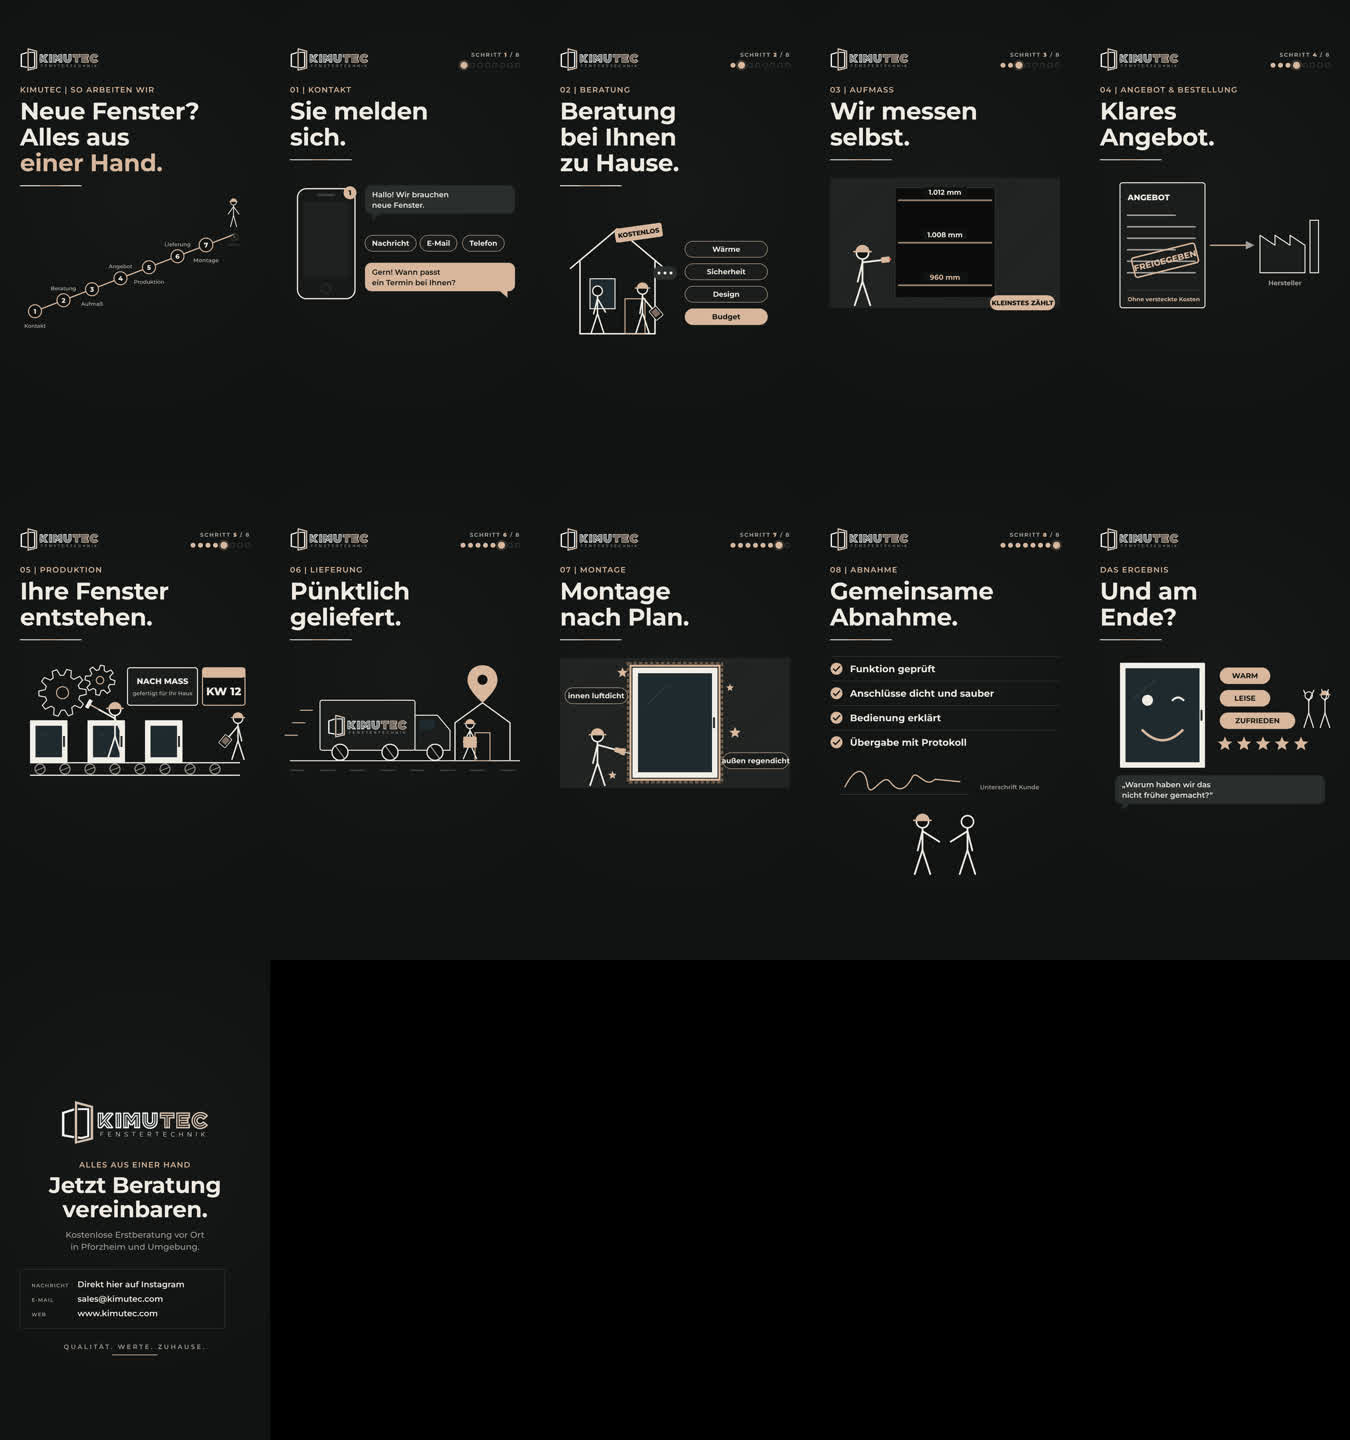
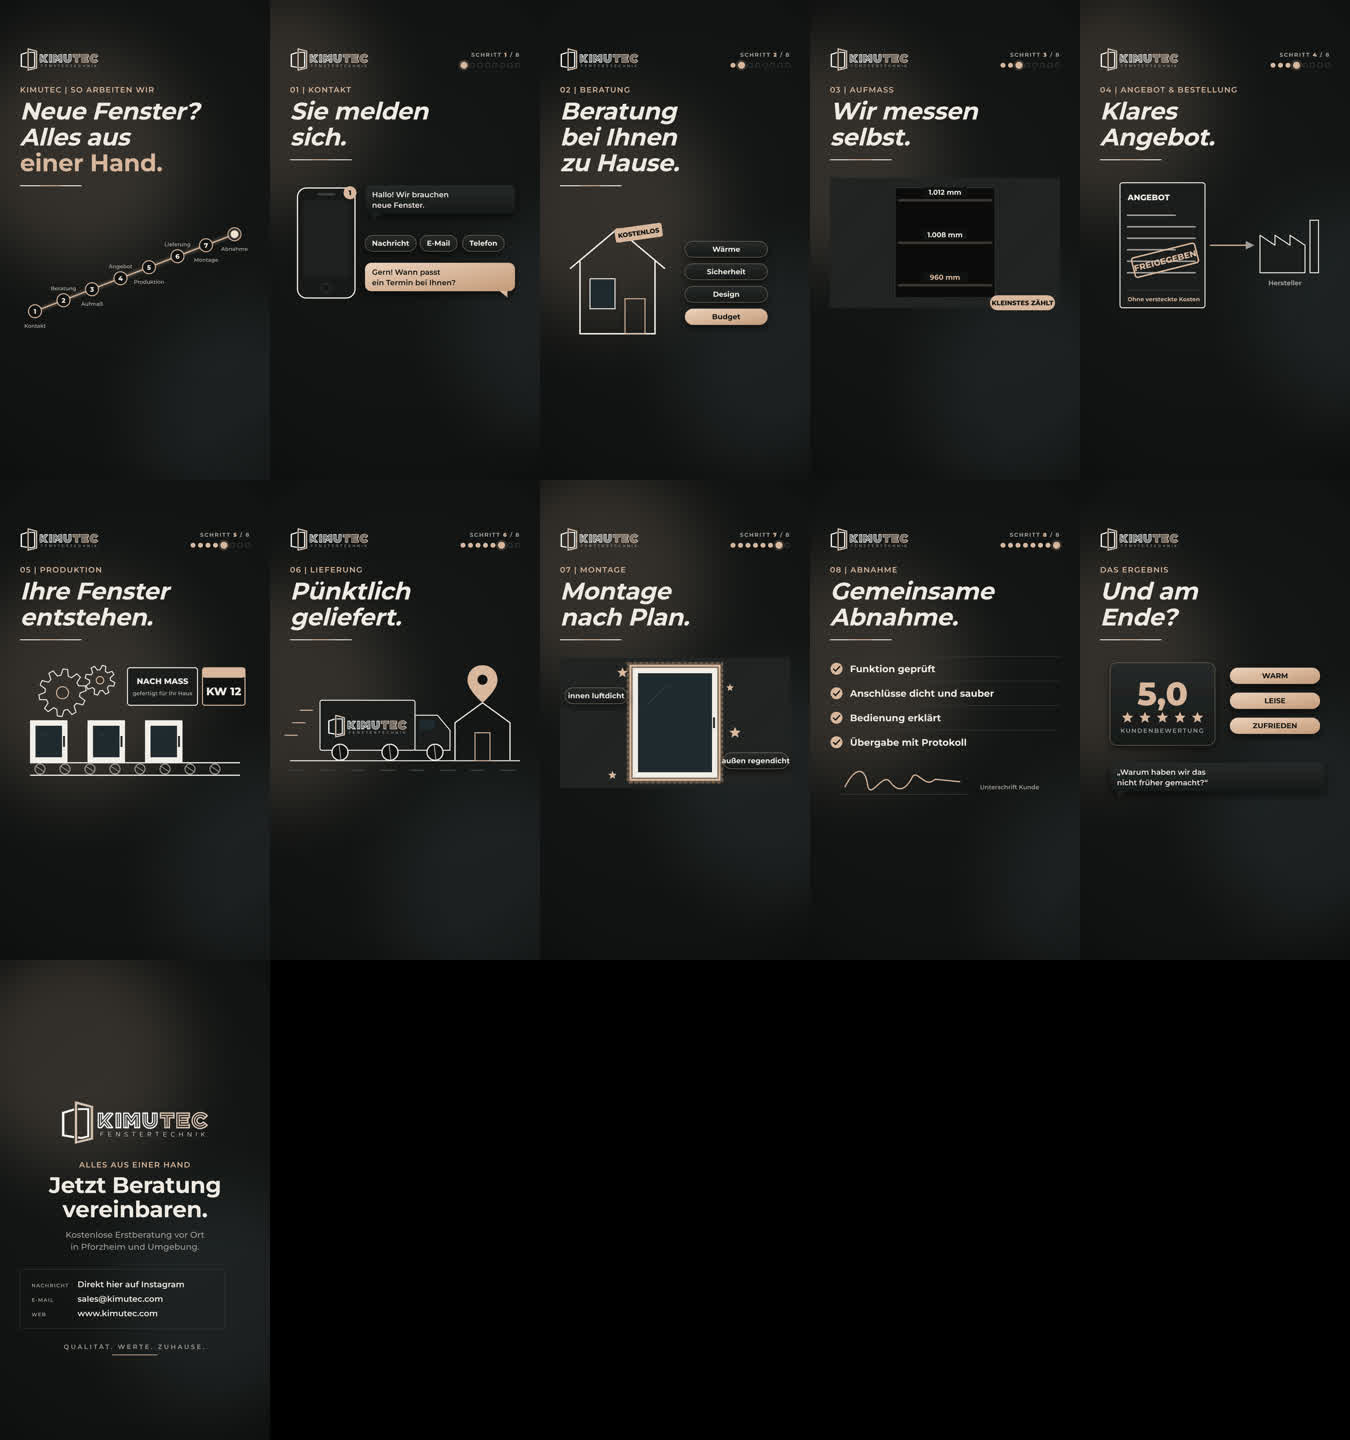
Reel 9: Profi-Effekte statt Strichmännchen, ruhige Stimme ohne Akzent
Titel Wort für Wort, Lichtwischer bei Szenenwechseln, wanderndes
Hintergrundlicht, leuchtende Linien, Karten mit Verlauf und Schatten,
Bewertungskarte mit Konfetti. Stimme: Florian (Microsoft), ruhig.

Claude-Session: https://claude.ai/code/session_01MaL2Hq1C3zWQVUzRVBLkBD

diff --git a/reels/engine/buehne.html b/reels/engine/buehne.html
@@ -20,7 +20,18 @@
 html,body{margin:0;background:var(--bg)}
 body{width:1080px;height:1920px;overflow:hidden;position:relative;font-family:"Montserrat",sans-serif;color:var(--ink);
   background:radial-gradient(120% 70% at 50% 40%,#151817 0%,var(--bg) 70%)}
-#logo{position:absolute;left:80px;top:190px;height:96px}
+#logo{position:absolute;left:80px;top:190px;height:96px;z-index:2}
+#licht{position:absolute;inset:0;overflow:hidden;pointer-events:none}
+#licht i{position:absolute;width:900px;height:900px;border-radius:50%;filter:blur(120px);opacity:.16}
+#licht i:nth-child(1){background:#D8B79C;left:-300px;top:200px}
+#licht i:nth-child(2){background:#7E95A0;right:-380px;top:1000px;opacity:.10}
+#licht b{position:absolute;inset:0;background:radial-gradient(130% 90% at 50% 45%,transparent 55%,rgba(0,0,0,.55) 100%)}
+#wisch{position:absolute;top:-200px;left:0;width:520px;height:2400px;pointer-events:none;z-index:5;
+  background:linear-gradient(90deg,rgba(216,183,156,0) 0%,rgba(216,183,156,.18) 40%,rgba(240,220,200,.85) 50%,rgba(216,183,156,.18) 60%,rgba(216,183,156,0) 100%);transform:translateX(-900px) skewX(-14deg)}
+.szene{will-change:transform,opacity,filter}
+.titel .zeile{display:block;overflow:hidden;padding-bottom:.1em;margin-bottom:-.1em}
+.titel .wort{display:inline-block;font-style:normal;will-change:transform}
+.leuchten{filter:url(#glow)}
 .szene{position:absolute;inset:0;padding:340px 80px 0}
 .label{font-size:31px;font-weight:600;letter-spacing:.09em;color:var(--akzent);text-transform:uppercase;margin:0 0 14px}
 .titel{font-size:96px;line-height:1.08;font-weight:700;letter-spacing:-.01em;margin:0}
@@ -111,11 +122,17 @@ body{width:1080px;height:1920px;overflow:hidden;position:relative;font-family:"M
     <pattern id="daemmung" width="40" height="14" patternUnits="userSpaceOnUse">
       <rect width="40" height="14" fill="#2A241E"/><line x1="0" y1="7" x2="40" y2="7" stroke="#6E5A48" stroke-width="2"/>
     </pattern>
+    <filter id="glow" x="-20%" y="-20%" width="140%" height="140%"><feGaussianBlur stdDeviation="7" result="b"/><feMerge><feMergeNode in="b"/><feMergeNode in="SourceGraphic"/></feMerge></filter>
+    <filter id="schatten" x="-20%" y="-20%" width="140%" height="160%"><feDropShadow dx="0" dy="14" stdDeviation="16" flood-color="#000" flood-opacity=".55"/></filter>
+    <linearGradient id="verlauf-karte" x1="0" y1="0" x2="0" y2="1"><stop offset="0" stop-color="#262A29"/><stop offset="1" stop-color="#161918"/></linearGradient>
+    <linearGradient id="verlauf-akzent" x1="0" y1="0" x2="1" y2="1"><stop offset="0" stop-color="#EBD2BC"/><stop offset="1" stop-color="#C49A78"/></linearGradient>
     <marker id="pfeil" viewBox="0 0 10 10" refX="5" refY="5" markerWidth="7" markerHeight="7" orient="auto-start-reverse">
       <path d="M0 0L10 5L0 10z" fill="#A3A09A"/>
     </marker>
   </defs>
 </svg>
+<div id="licht"><i></i><i></i><b></b></div>
+<div id="wisch"></div>
 <img id="logo" src="../marke/kimutec-logo.png" alt="KIMUTEC Fenstertechnik">
 <div id="szenen"></div>
 <script>
@@ -166,7 +183,7 @@ function baueSzene(s, i){
       ${s.motto?`<p class="motto" data-t="1.9">${s.motto}<i></i></p>`:''}`;
   }else{
     d.innerHTML=`<p class="label">${s.label||''}</p>
-      <h1 class="titel">${(s.titel||'').split('\n').map(z=>`<span>${z}</span>`).join('')}</h1>
+      <h1 class="titel">${(s.titel||'').split('\n').map(z=>`<span class="zeile">${z.replace(/(<em>.*?<\/em>|[^\s<]+)/g,w=>`<i class="wort">${w}</i>`)}</span>`).join('')}</h1>
       <svg class="strich" viewBox="0 0 246 4"><rect width="246" height="4" fill="#EEEAE2"/><rect x="82" width="82" height="4" fill="#D8B79C"/></svg>
       ${s.bild?`<svg class="bild" viewBox="0 0 920 ${s.bildHoehe||560}" style="height:${(s.bildHoehe||560)}px">${s.bild}</svg>`:''}
       ${s.schritt?`<div class="schritte"><small>SCHRITT <b>${s.schritt}</b> / ${s.schrittVon||8}</small>${Array.from({length:s.schrittVon||8},(_,k)=>`<span class="${k+1<s.schritt?'an':k+1===s.schritt?'jetzt pop':''}" ${k+1===s.schritt?'data-t="0.5" data-d="0.7"':''}></span>`).join('')}</div>`:''}
@@ -189,7 +206,7 @@ window.ladeReel=function(drehbuch, zeiten){
       el.querySelectorAll('[data-t]').forEach(e=>teil(e,sz,'auf'));
     }else{
       teil(el.querySelector('.label'),sz,'auf',0.05,.5);
-      el.querySelectorAll('.titel span').forEach((e,k)=>teil(e,sz,'auf',0.15+k*.12,.6));
+      el.querySelectorAll('.titel .wort').forEach((e,k)=>teil(e,sz,'wort',0.2+k*.09,.75));
       teil(el.querySelector('.strich'),sz,'breit',0.55,.6);
       // Bild-Elemente: nur direkte Kinder mit data-t werden animiert, Rest steht sofort
       el.querySelectorAll('.bild [data-t], .bild .zeichnen, .html [data-t], .schritte [data-t]').forEach(e=>teil(e,sz,'auf',0.5,.7));
@@ -208,6 +225,9 @@ function wende(t, ts){
     for(const {f,l} of t.formen)f.style.strokeDashoffset=l*(1-p);
     el.style.opacity=p>0?1:0;
     if(t.tAus!=null)el.style.opacity=1-sanft((ts-t.tAus)/.4);
+  }else if(t.art==='wort'){
+    const q=1-Math.pow(2,-10*klemm((ts-t.tIn)/t.dauer));   // easeOutExpo
+    el.style.transform=`translateY(${(1-q)*112}%)`;el.style.opacity=ts>=t.tIn?1:0;return;
   }else if(t.art==='breit'){
     el.style.clipPath=`inset(0 ${100-p*100}% 0 0)`;
   }else{
@@ -236,10 +256,20 @@ window.zeige=function(sek){
     sz.el.style.display=sicht>0?'block':'none';
     if(sicht<=0)continue;
     sz.el.style.opacity=sicht;
+    const rein=1-sanft(ts/.55), raus=sz.letzte?0:sanft((ts-(sz.dauer-.35))/.35);
+    sz.el.style.transform=`translateY(${rein*50-raus*40}px) scale(${1+raus*.02})`;
+    sz.el.style.filter=(rein+raus)>.01?`blur(${(rein+raus)*10}px)`:'none';
     for(const t of sz.teile)wende(t,ts);
     if(sz.el.classList.contains('abschluss'))logoSicht=Math.min(logoSicht,1-sicht);
   }
   logo.style.opacity=logoSicht;
+  // Lichtwischer über jeden Szenenwechsel
+  let w=-1;for(const sz of REEL.szenen.slice(1)){const p=(sek-(sz.start-.38))/.8;if(p>=0&&p<=1){w=p;break}}
+  document.getElementById('wisch').style.transform=`translateX(${w<0?-900:-700+w*2300}px) skewX(-14deg)`;
+  // Hintergrundlicht wandert langsam
+  const [a,b]=document.querySelectorAll('#licht i');
+  a.style.transform=`translate(${Math.sin(sek*.21)*180}px,${Math.cos(sek*.17)*260}px)`;
+  b.style.transform=`translate(${Math.cos(sek*.15)*-160}px,${Math.sin(sek*.19)*220}px)`;
 };
 
 // Vorschau im Browser: buehne.html?drehbuch=pfad – schätzt Zeiten ohne Sprecher und spielt ab

diff --git a/reels/projekte/09-ablauf/bauen.py b/reels/projekte/09-ablauf/bauen.py
@@ -1,8 +1,6 @@
 # Erzeugt drehbuch.json für das Reel „So arbeiten wir“ (Kontakt bis Abnahme).
 # Aufruf: python3 reels/projekte/09-ablauf/bauen.py && node reels/render.mjs reels/projekte/09-ablauf/drehbuch.json
 import json, math, os, sys
-sys.path.insert(0, os.path.join(os.path.dirname(os.path.abspath(__file__)), '..', '..'))
-from figuren import mann
 
 INK, AKZ, MUT, LIN, GLAS, GLASR = '#EEEAE2', '#D8B79C', '#A3A09A', '#3A3E3C', '#1F2A30', '#9FB3BC'
 
@@ -20,6 +18,21 @@ def stern(cx, cy, r):
     p = ' '.join(f'{cx + (r if k % 2 == 0 else r * .45) * math.cos(-math.pi / 2 + k * math.pi / 5):.1f},{cy + (r if k % 2 == 0 else r * .45) * math.sin(-math.pi / 2 + k * math.pi / 5):.1f}' for k in range(10))
     return f"<polygon points='{p}' fill='{AKZ}'/>"
 
+import random
+random.seed(9)
+def konfetti(cx, cy, t, n=34):
+    farben = [AKZ, INK, '#9FB3BC', '#C49A78']
+    out = ''
+    for k in range(n):
+        w = random.uniform(-1, 1) * math.pi; r = random.uniform(180, 460)
+        dx, dy = r * math.cos(w), r * math.sin(w) * 0.8 - 60
+        form = (f"<rect x='{cx-7}' y='{cy-3}' width='14' height='6' rx='2' fill='{random.choice(farben)}'/>" if k % 2
+                else f"<circle cx='{cx}' cy='{cy}' r='5' fill='{random.choice(farben)}'/>")
+        tt = f"{t}+{random.uniform(0, .25):.2f}"
+        out += (f"<g data-t='{tt}' data-d='0.2' data-aus='{t}+{2.4+random.uniform(0,.6):.1f}' data-bewegung='{dx:.0f},{dy:.0f},{tt},1.4'>"
+                f"<g data-t='{tt}' data-drehen='{random.choice([-1,1])*random.uniform(200,520):.0f}'>{form}</g></g>")
+    return out
+
 def fenster(x, y, w, h, alt=False):
     rahmen = '#8A8F8C' if alt else '#F2EFE8'
     s = f"<rect x='{x}' y='{y}' width='{w}' height='{h}' rx='4' fill='{rahmen}'/><rect x='{x+22}' y='{y+22}' width='{w-44}' height='{h-44}' fill='{GLAS}'/>"
@@ -31,21 +44,21 @@ def fenster(x, y, w, h, alt=False):
 
 def chip(x, y, text, t, voll=False, breite=None):
     b = breite or 34 + len(text) * 19
-    fill, farbe = (AKZ, '#111312') if voll else ('#1A1D1C', INK)
-    return (f"<g class='pop' data-t='{t}' data-d='0.5'><rect x='{x}' y='{y}' width='{b}' height='64' rx='32' fill='{fill}' stroke='{AKZ}' stroke-width='2'/>"
+    fill, farbe = ('url(#verlauf-akzent)', '#111312') if voll else ('url(#verlauf-karte)', INK)
+    return (f"<g class='pop' data-t='{t}' data-d='0.5'><rect x='{x}' y='{y}' width='{b}' height='64' rx='32' fill='{fill}' stroke='{AKZ}' stroke-opacity='.55' stroke-width='2' filter='url(#schatten)'/>"
             f"<text x='{x + b/2}' y='{y + 42}' text-anchor='middle' style='font-family:Montserrat;font-weight:700;font-size:29px;fill:{farbe}'>{text}</text></g>")
 
 def blase(x, y, w, zeilen, t, kunde=True):
     h = 30 + 42 * len(zeilen)
-    fill, farbe = ('#2A2E2D', INK) if kunde else (AKZ, '#111312')
+    fill, farbe = ('url(#verlauf-karte)', INK) if kunde else ('url(#verlauf-akzent)', '#111312')
     spitze = f"M{x+30} {y+h} l0 26 l30 -26z" if kunde else f"M{x+w-30} {y+h} l0 26 l-30 -26z"
     txt = ''.join(f"<text x='{x+28}' y='{y+48+42*k}' style='font-family:Montserrat;font-weight:600;font-size:30px;fill:{farbe}'>{z}</text>" for k, z in enumerate(zeilen))
-    return f"<g class='pop' data-t='{t}' data-d='0.55' data-ursprung='{'left bottom' if kunde else 'right bottom'}'><rect x='{x}' y='{y}' width='{w}' height='{h}' rx='26' fill='{fill}'/><path d='{spitze}' fill='{fill}'/>{txt}</g>"
+    return f"<g class='pop' data-t='{t}' data-d='0.55' data-ursprung='{'left bottom' if kunde else 'right bottom'}'><rect x='{x}' y='{y}' width='{w}' height='{h}' rx='26' fill='{fill}' filter='url(#schatten)'/><path d='{spitze}' fill='{fill}'/>{txt}</g>"
 
 # ---------- Szene 1: Der Weg in 8 Schritten
 schritte = ['Kontakt', 'Beratung', 'Aufmaß', 'Angebot', 'Produktion', 'Lieferung', 'Montage', 'Abnahme']
 pkt = [(60 + k * 114, 430 - k * 44) for k in range(8)]
-weg = f"<path class='zeichnen' data-t='m1' data-d='2.4' d='M{' L'.join(f'{x} {y}' for x, y in pkt)}' fill='none' stroke='{AKZ}' stroke-width='5'/>"
+weg = f"<path class='zeichnen leuchten' data-t='m1' data-d='2.6' d='M{' L'.join(f'{x} {y}' for x, y in pkt)}' fill='none' stroke='{AKZ}' stroke-width='5'/>"
 punkte = ''
 for k, (x, y) in enumerate(pkt):
     ty = y + 66 if (k % 2 == 0 or k == 7) else y - 40
@@ -77,7 +90,7 @@ def laser(y, m, plus, wert, klein=False):
     t = f'{m}+{plus:.1f}' if plus else m
     t2 = f'{m}+{plus+0.3:.1f}'
     return (f"<line class='zeichnen' data-t='{t}' data-d='0.5' x1='272' y1='{y}' x2='648' y2='{y}' stroke='{AKZ}' stroke-width='10' stroke-opacity='.25'/>"
-            f"<line class='zeichnen' data-t='{t}' data-d='0.5' x1='272' y1='{y}' x2='648' y2='{y}' stroke='{AKZ}' stroke-width='3'/>"
+            f"<line class='zeichnen leuchten' data-t='{t}' data-d='0.5' x1='272' y1='{y}' x2='648' y2='{y}' stroke='#F6E3D2' stroke-width='3'/>"
             f"<g data-t='{t2}'><rect x='370' y='{y-52}' width='180' height='40' rx='6' fill='#111312'/>"
             f"<text x='460' y='{y-22}' text-anchor='middle' data-t='{t2}' data-d='1.2' data-zahl='{wert}' data-einheit=' mm' style='font-family:Montserrat;font-weight:700;font-size:28px;fill:{farbe}'>0 mm</text></g>")
 bild4 = (f"<rect class='wand' x='0' y='0' width='920' height='520'/><rect class='offen' x='260' y='40' width='400' height='440'/>"
@@ -124,7 +137,7 @@ bild7 = (f"<line x1='0' y1='412' x2='920' y2='412' stroke='{INK}' stroke-width='
 bild8 = (f"<rect class='wand' x='0' y='0' width='920' height='520'/><rect class='offen' x='290' y='40' width='340' height='440'/>"
          f"<g data-t='0.1' data-aus='m1+1.1' data-bewegung='-700,0,m1,1.0'><g>{fenster(290, 40, 340, 440, alt=True)}</g></g>"
          f"<g data-t='m2' data-d='0.3' data-bewegung='-700,0,m2,1.0'><g>{fenster(990, 40, 340, 440)}</g></g>"
-         f"<g data-t='m3'><rect x='282' y='32' width='356' height='456' fill='none' stroke='{AKZ}' stroke-width='8'/></g>"
+         f"<rect class='zeichnen leuchten' data-t='m3' data-d='1.0' x='282' y='32' width='356' height='456' fill='none' stroke='{AKZ}' stroke-width='8'/>"
          f"<g data-t='m3+1.2'><rect x='272' y='22' width='376' height='476' fill='none' stroke='#6E5A48' stroke-width='10' stroke-dasharray='14 8'/></g>"
          + chip(20, 120, 'innen luftdicht', 'm3+0.4', breite=250) + chip(652, 380, 'außen regendicht', 'm3+1.6', breite=262)
          + ''.join(f"<g class='pop' data-t='m4+{k*0.2:.1f}'>{stern(x, y, r)}</g>" for k, (x, y, r) in enumerate([(250, 60, 22), (680, 120, 16), (210, 470, 18), (700, 300, 24)])))
@@ -139,41 +152,20 @@ html9 = (pruef('Funktion geprüft', 'm2') + pruef('Anschlüsse dicht und sauber'
            f"<line x1='40' y1='130' x2='560' y2='130' stroke='{LIN}' stroke-width='3' data-t='m5'/><text x='600' y='110' data-t='m5' style='font-family:Montserrat;font-weight:600;font-size:24px;fill:{MUT}'>Unterschrift Kunde</text></svg>")
 
 # ---------- Szene 10: Zufrieden (mit Augenzwinkern)
-gesicht = (f"<g data-t='0.4'>{fenster(80, 20, 340, 420)}</g>"
-           f"<g class='pop' data-t='m4'><circle cx='190' cy='170' r='22' fill='{INK}'/></g>"
-           f"<g class='pop' data-t='m4+0.2'><path d='M290 170 q22 -22 44 0' fill='none' stroke='{INK}' stroke-width='8' stroke-linecap='round'/></g>"
-           f"<path class='zeichnen' data-t='m4+0.3' data-d='0.6' d='M170 290 Q250 370 330 290' fill='none' stroke='{AKZ}' stroke-width='10' stroke-linecap='round'/>")
-woerter = chip(480, 40, 'WARM', 'm1', breite=200, voll=True) + chip(480, 130, 'LEISE', 'm2', breite=200, voll=True) + chip(480, 220, 'ZUFRIEDEN', 'm3', breite=300, voll=True)
-sterne = ''.join(f"<g class='pop' data-t='m4+{0.5+k*0.15:.2f}'>{stern(500 + k*76, 345, 30)}</g>" for k in range(5))
-bild10 = gesicht + woerter + sterne + blase(60, 470, 840, ['„Warum haben wir das', 'nicht früher gemacht?“'], 'm6')
+bewertung = (f"<g class='pop' data-t='0.4' data-d='0.6'><rect x='40' y='20' width='420' height='330' rx='28' fill='url(#verlauf-karte)' stroke='{AKZ}' stroke-opacity='.5' stroke-width='2' filter='url(#schatten)'/>"
+             f"<text x='250' y='190' text-anchor='middle' style='font-family:Montserrat;font-weight:800;font-size:130px;fill:{AKZ}'>5,0</text>"
+             f"<text x='250' y='300' text-anchor='middle' style='font-family:Montserrat;font-weight:600;font-size:24px;letter-spacing:4px;fill:{MUT}'>KUNDENBEWERTUNG</text></g>"
+             + ''.join(f"<g class='pop' data-t='m4+{0.3+k*0.12:.2f}'>{stern(110 + k*70, 240, 24)}</g>" for k in range(5)))
+woerter = chip(520, 40, 'WARM', 'm1', breite=360, voll=True) + chip(520, 140, 'LEISE', 'm2', breite=360, voll=True) + chip(520, 240, 'ZUFRIEDEN', 'm3', breite=360, voll=True)
+bild10 = bewertung + woerter + blase(40, 420, 860, ['„Warum haben wir das', 'nicht früher gemacht?“'], 'm6') + konfetti(250, 170, 'm4')
 
-# ---------- Männchen
-LAUF = dict(laufen=True, arm_l=20, arm_r=-20, wipp_l=(25, 1.6, 0.5), wipp_r=(25, 1.6))
-bild1 += f"<g data-t='m1' data-bewegung='798,-308,m1,2.6'>{mann(60, 402, 0.42, 'm1', **LAUF)}</g>"
-bild3 += (mann(150, 520, 0.72, 'm1', kunde=True, arm_r=-30, wipp_r=(14, 1.4), blick=1)
-          + mann(330, 520, 0.75, 'm1+0.3', arm_r=-40, werkzeug_r='tablet', wipp_l=(12, 1.2), blick=-1)
-          + f"<g class='pop' data-t='m2'><rect x='372' y='250' width='96' height='54' rx='27' fill='#2A2E2D'/>"
-          + ''.join(f"<circle cx='{396+k*24}' cy='277' r='6' fill='{INK}'/>" for k in range(3)) + "</g>")
-bild4 += mann(130, 515, 0.9, 'm2', arm_r=-90, werkzeug_r='laser', wipp_r=(12, 0.45), blick=1)
-bild6 += (mann(380, 410, 0.85, 'm1', arm_r=150, werkzeug_r='hammer', wipp_r=(32, 2.4), arm_l=-25, blick=-1)
-          + mann(872, 410, 0.7, 'm2+0.5', arm_l=40, werkzeug_l='tablet', blick=-1))
-kiste = f"<rect x='573' y='318' width='54' height='44' rx='4' fill='{AKZ}'/>"
-bild7 += f"<g data-t='m2' data-bewegung='120,0,m2,1.6'>{mann(600, 412, 0.6, 'm2', laufen=True, arm_l=-30, arm_r=30, extra=kiste)}</g>"
-bild8 += (mann(150, 515, 0.85, '0.4', arm_r=-60, werkzeug_r='brecheisen', wipp_r=(14, 2.2), klasse='pop', extra='').replace("data-t='0.4' data-d='0.5'", "data-t='0.4' data-d='0.5' data-aus='m1'")
-          + f"<g data-t='0.6' data-aus='m1+1.1' data-bewegung='-700,0,m1,1.0'>"
-          f"{mann(262, 500, 0.85, '0.6', laufen=True, arm_r=-100, arm_l=-70)}{mann(658, 500, 0.85, '0.6', laufen=True, arm_l=100, arm_r=70)}</g>")
-bild8 += (f"<g data-t='m2' data-aus='m3' data-bewegung='-700,0,m2,1.0'>"
-          f"{mann(960, 500, 0.85, 'm2', laufen=True, arm_r=-100, arm_l=-60)}{mann(1360, 500, 0.85, 'm2', laufen=True, arm_l=100, arm_r=60)}</g>"
-          + mann(150, 515, 0.85, 'm3', arm_r=-78, werkzeug_r='bohrer', wipp_r=(3, 9), blick=1))
-html9 += (f"<svg viewBox='0 0 920 300' style='width:920px;height:300px;margin-top:10px;overflow:visible'>"
-          + mann(370, 290, 0.9, 'm3+0.4', arm_r=-62, wipp_r=(6, 2), blick=1)
-          + mann(550, 290, 0.9, 'm3+0.6', kunde=True, arm_l=62, wipp_l=(6, 2, 0.5), blick=-1) + "</svg>")
-bild10 += (f"<g data-t='m5' data-huepfen='18,1.4'>{mann(835, 300, 0.55, 'm5', kunde=True, arm_l=150, arm_r=-150, wipp_l=(15, 2.8), wipp_r=(15, 2.8, 0.5))}</g>"
-           f"<g data-t='m5+0.3' data-huepfen='18,1.4'>{mann(900, 300, 0.55, 'm5+0.3', arm_l=150, arm_r=-150, wipp_l=(15, 2.8, 0.25), wipp_r=(15, 2.8, 0.75))}</g>")
+# ---------- Effekte
+# Lichtpunkt fährt den Weg entlang
+bild1 += (f"<g data-t='m1' data-d='0.3' data-bewegung='798,-308,m1,2.6'><circle cx='60' cy='430' r='15' fill='#F6E3D2' class='leuchten'/></g>")
 
 db = {
     "titel": "KIMUTEC – So arbeiten wir: vom Kontakt bis zur Abnahme",
-    "fps": 30, "stimme": "chatterbox",
+    "fps": 30, "stimme": "edge:de-DE-FlorianMultilingualNeural", "tempo": "-8%",
     "aussprache": {"kimutec.com": "Kimutek Punkt com", "KIMUTEC": "Kimutek"},
     "szenen": [
         {"label": "KIMUTEC | So arbeiten wir", "titel": "Neue Fenster?\nAlles aus\n<em>einer Hand.</em>", "bildHoehe": 500, "bild": bild1,
